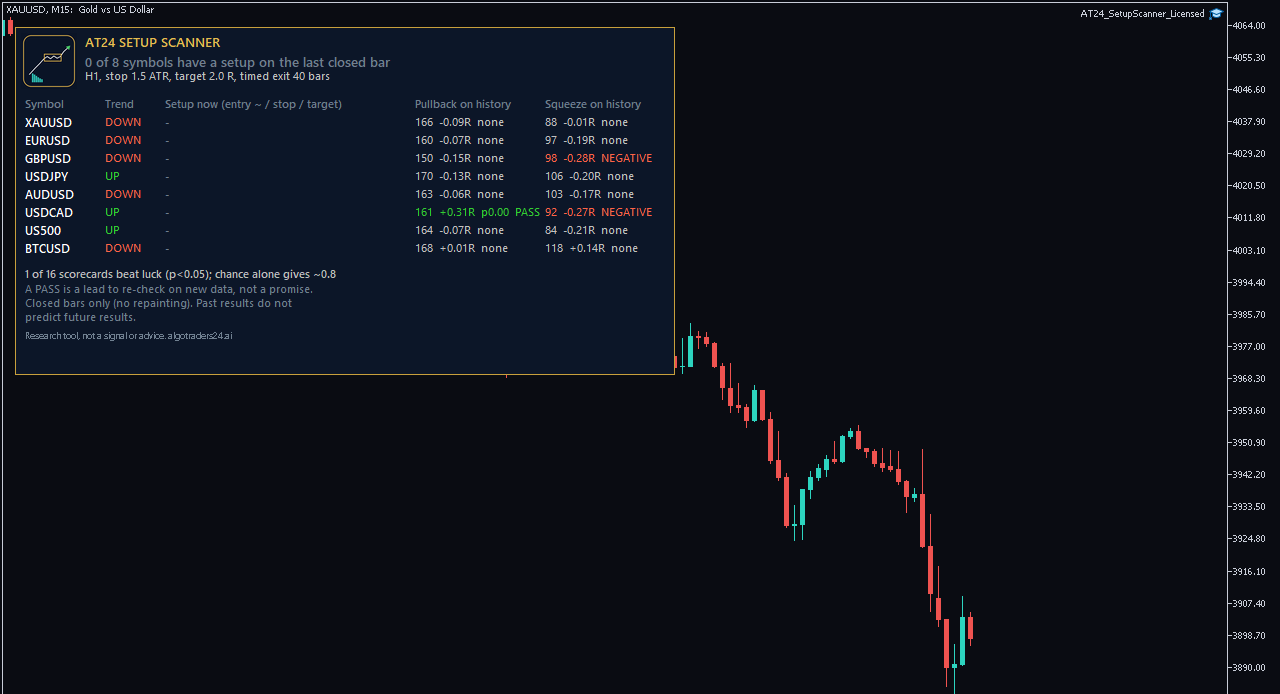
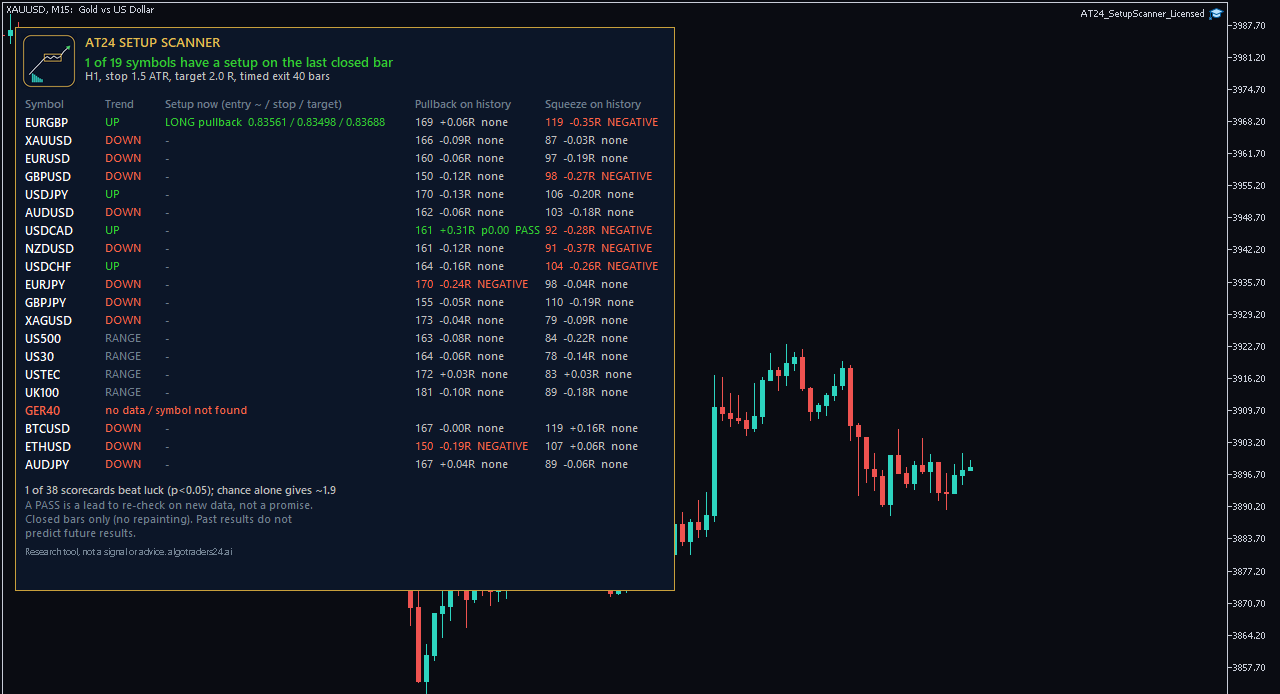
docs(marketplace): Setup Scanner live-check wording, Forward Ledger TV four-rule note

diff --git a/frontend/scripts/create-at24-setup-scanner-listings.ts b/frontend/scripts/create-at24-setup-scanner-listings.ts
@@ -47,7 +47,7 @@ A PASS is in-sample and may be luck, so treat it as a lead to re-check on new da
 
 It is delivered as a non-trading utility Expert Advisor with the indicator built into the file (MT5 does not allow licence checks inside indicators): attach it to any chart and the table appears.
 
-What was verified: compiles with 0 errors and 0 warnings in the real MetaEditor and runs on a real MT5 chart with eight broker symbols (see the screenshot). The engine matches an independent Python calculation on two symbols. Not verified: live setups and alerts on a connected terminal, and a 15-20 symbol watchlist on a slow feed.
+What was verified: compiles with 0 errors and 0 warnings in the real MetaEditor and runs on a real MT5 chart with eight broker symbols (see the screenshot). The engine matches an independent Python calculation on two symbols. Also checked on a live demo feed: a live setup was shown with its levels, the new-setup alert fired once per symbol per bar over a 12-minute run on 19 symbols, and a symbol the broker does not offer is shown as not found instead of stopping the table. Scanning many symbols on a very low timeframe can be slow (one reload took about 6 seconds with 19 symbols on M1), so an hourly or higher timeframe is the sensible choice. Push notifications were not tested.
 ${RESULT}
 Not verified: live-money use, alerts beyond a screenshot, the licence check with a real purchase. MetaTrader 5 only.${FOOT}${LICENCE}`,
   },

diff --git a/frontend/scripts/create-at24-forward-ledger-tv-listings.ts b/frontend/scripts/create-at24-forward-ledger-tv-listings.ts
@@ -42,6 +42,8 @@ What you get
 - A labelled REPLAY mode (an input date) that shows how misleading in-sample numbers can be. Use the 1h chart.
 
 What was verified: the script compiles and renders in TradingView's Pine Editor (OANDA XAUUSD 1h, ledger open at day 1: every rule reads collecting - see the screenshot). The ledger engine matches an independent Python calculation in the MetaTrader 5 edition. A collecting or 'no edge so far' reading is the normal outcome; nothing here is a signal or shows an edge.
+
+Difference from the MetaTrader 5 edition: this TradingView edition registers four rules. The fifth rule in the MetaTrader 5 edition uses the broker's economic calendar, which Pine Script cannot read, so it is not included here.
 Not verified: live-money use, other symbols and exchanges. ${TV_LICENCE_NOTE}${FOOT}`,
   },
 ];
